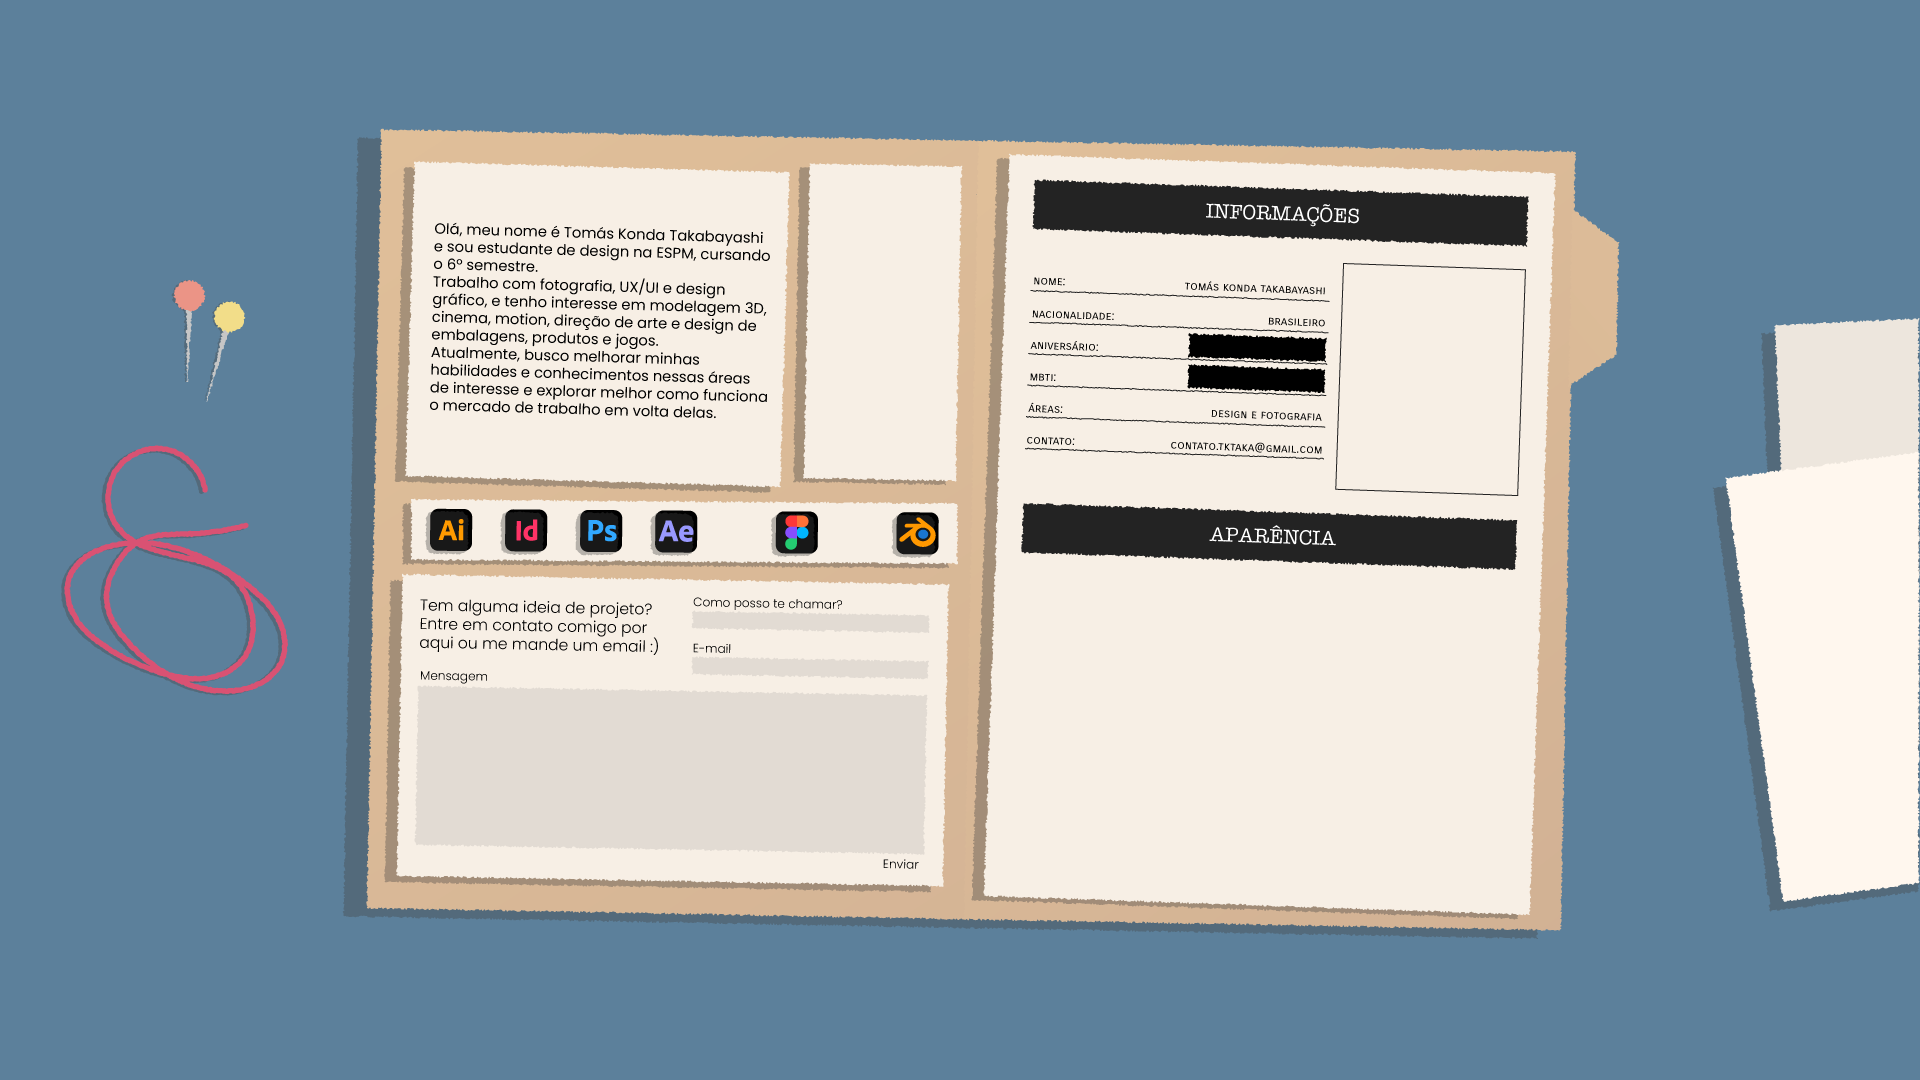
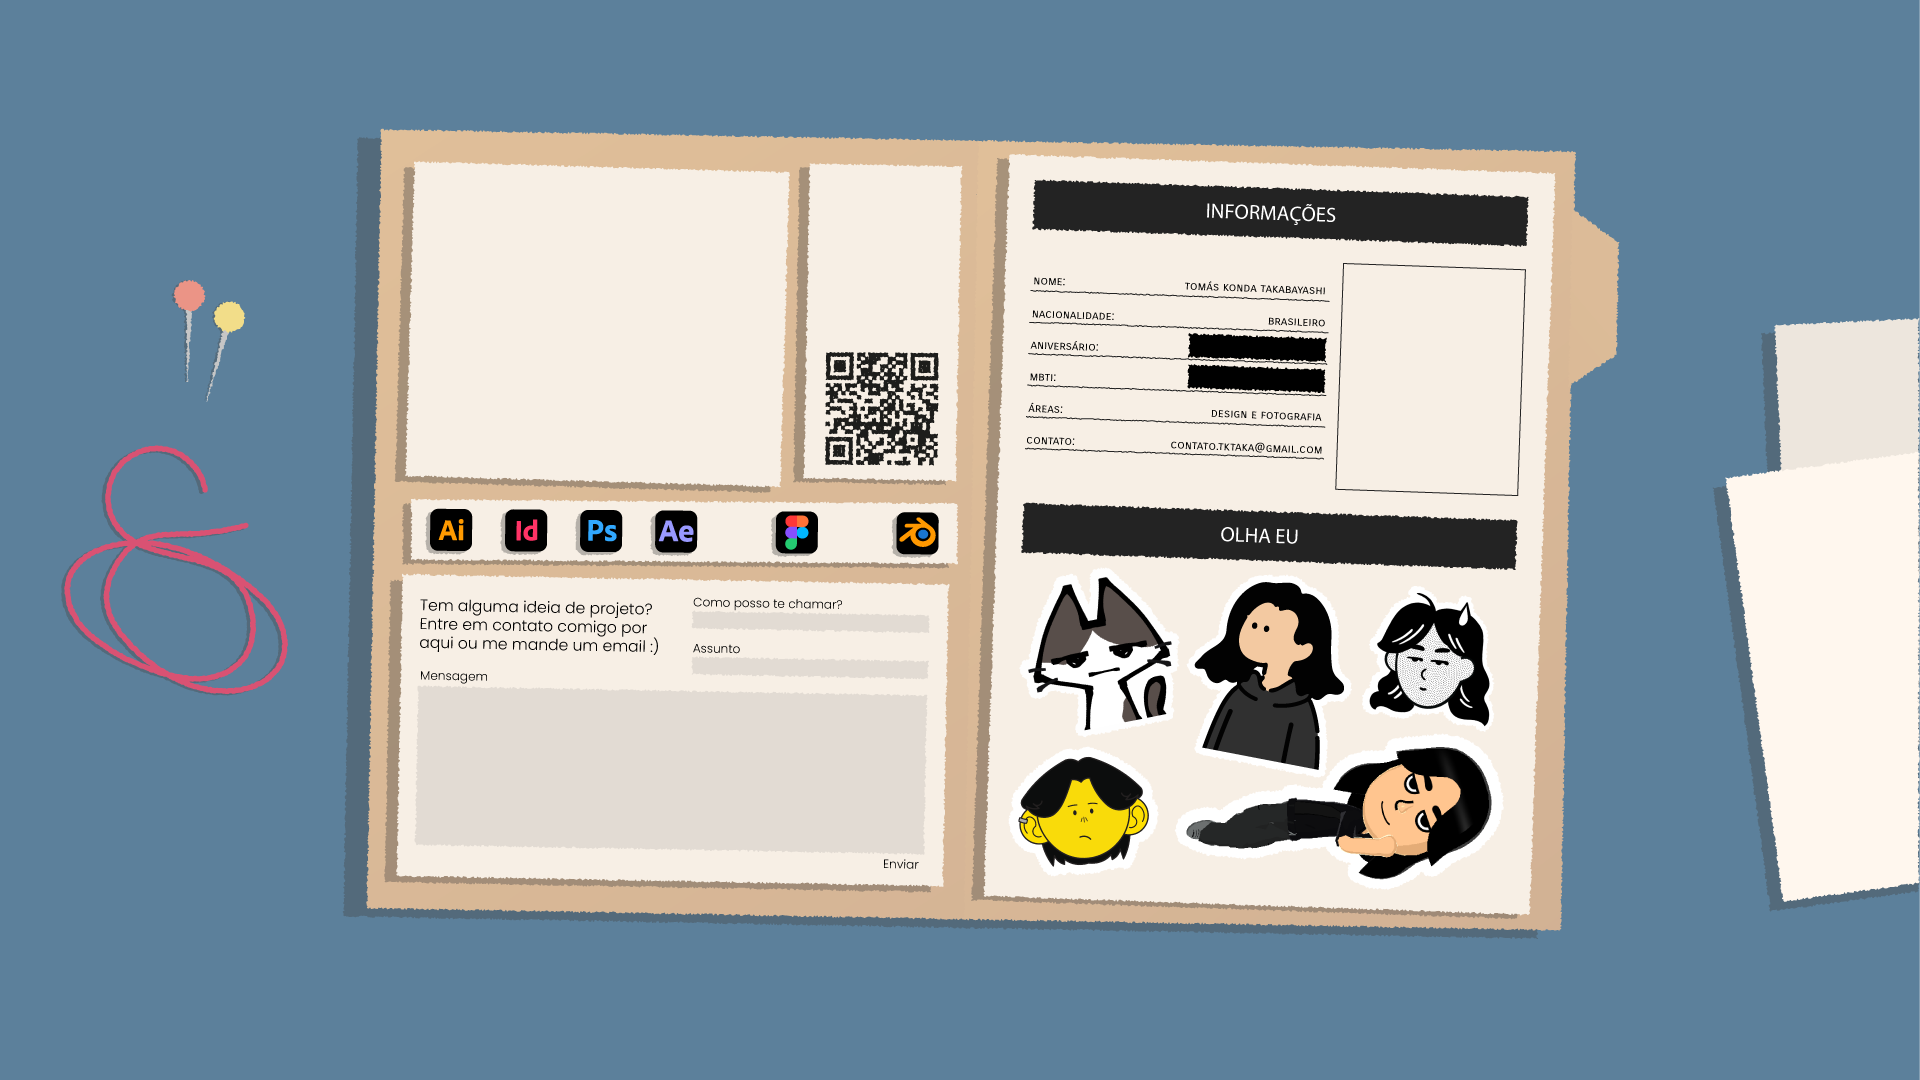
Sobre mim: novo fundo (sobre.webp sem perda) e campos alinhados às caixas dele
Claude-Session: https://claude.ai/code/session_01SfAoX826ighfHB52Wjwp17

Changed region(s): [[0.5, 0.4889, 0.7812, 0.825], [0.2188, 0.2139, 0.5, 0.4278], [0.625, 0.1833, 0.7188, 0.2139]]

diff --git a/css/style.css b/css/style.css
@@ -793,9 +793,9 @@ body.menu-visivel .menu-botao { opacity: 1; pointer-events: auto; }
 #sobre .apps span:nth-child(5){position:absolute;left:calc(50% + (772 - 961) * var(--k));top:calc(50% + (508 - 540) * var(--k));width:calc(50 * var(--k));height:calc(50 * var(--k));aspect-ratio:auto;margin:0;--r:0deg;transform:rotate(0deg);border-radius:14%;}
 #sobre .apps span:nth-child(6){position:absolute;left:calc(50% + (893 - 961) * var(--k));top:calc(50% + (508 - 540) * var(--k));width:calc(50 * var(--k));height:calc(50 * var(--k));aspect-ratio:auto;margin:0;--r:0deg;transform:rotate(0deg);border-radius:14%;}
 #sobre .sobre-chamado-contato{position:absolute;left:calc(50% + (415 - 961) * var(--k));top:calc(50% + (590 - 540) * var(--k));width:calc(250 * var(--k));height:calc(70 * var(--k));aspect-ratio:auto;margin:0;--r:0deg;transform:rotate(0deg);}
-#sobre .sobre-contato label:nth-of-type(1){position:absolute;left:calc(50% + (692 - 961) * var(--k));top:calc(50% + (613 - 540) * var(--k));width:calc(237 * var(--k));height:calc(18 * var(--k));aspect-ratio:auto;margin:0;--r:0deg;transform:rotate(0deg);font-size:calc(14 * var(--k));}
-#sobre .sobre-contato label:nth-of-type(2){position:absolute;left:calc(50% + (692 - 961) * var(--k));top:calc(50% + (659 - 540) * var(--k));width:calc(237 * var(--k));height:calc(19 * var(--k));aspect-ratio:auto;margin:0;--r:0deg;transform:rotate(0deg);font-size:calc(14 * var(--k));}
-#sobre .sobre-contato label:nth-of-type(3){position:absolute;left:calc(50% + (418 - 961) * var(--k));top:calc(50% + (694 - 540) * var(--k));width:calc(508 * var(--k));height:calc(158 * var(--k));aspect-ratio:auto;margin:0;--r:0deg;transform:rotate(0deg);font-size:calc(14 * var(--k));}
+#sobre .sobre-contato label:nth-of-type(1){position:absolute;left:calc(50% + (693 - 961) * var(--k));top:calc(50% + (614 - 540) * var(--k));width:calc(235 * var(--k));height:calc(17 * var(--k));aspect-ratio:auto;margin:0;--r:0deg;transform:rotate(0deg);font-size:calc(14 * var(--k));}
+#sobre .sobre-contato label:nth-of-type(2){position:absolute;left:calc(50% + (693 - 961) * var(--k));top:calc(50% + (660 - 540) * var(--k));width:calc(234 * var(--k));height:calc(17 * var(--k));aspect-ratio:auto;margin:0;--r:0deg;transform:rotate(0deg);font-size:calc(14 * var(--k));}
+#sobre .sobre-contato label:nth-of-type(3){position:absolute;left:calc(50% + (417 - 961) * var(--k));top:calc(50% + (694 - 540) * var(--k));width:calc(507 * var(--k));height:calc(158 * var(--k));aspect-ratio:auto;margin:0;--r:0deg;transform:rotate(0deg);font-size:calc(14 * var(--k));}
 #sobre .sobre-contato label:nth-of-type(-n+2) :is(input) { flex: none; height: calc(22 * var(--k)); margin-top: auto; }
 #sobre .sobre-contato label { justify-content: flex-start; }
 #sobre .sobre-contato textarea { margin-top: 2px; }
